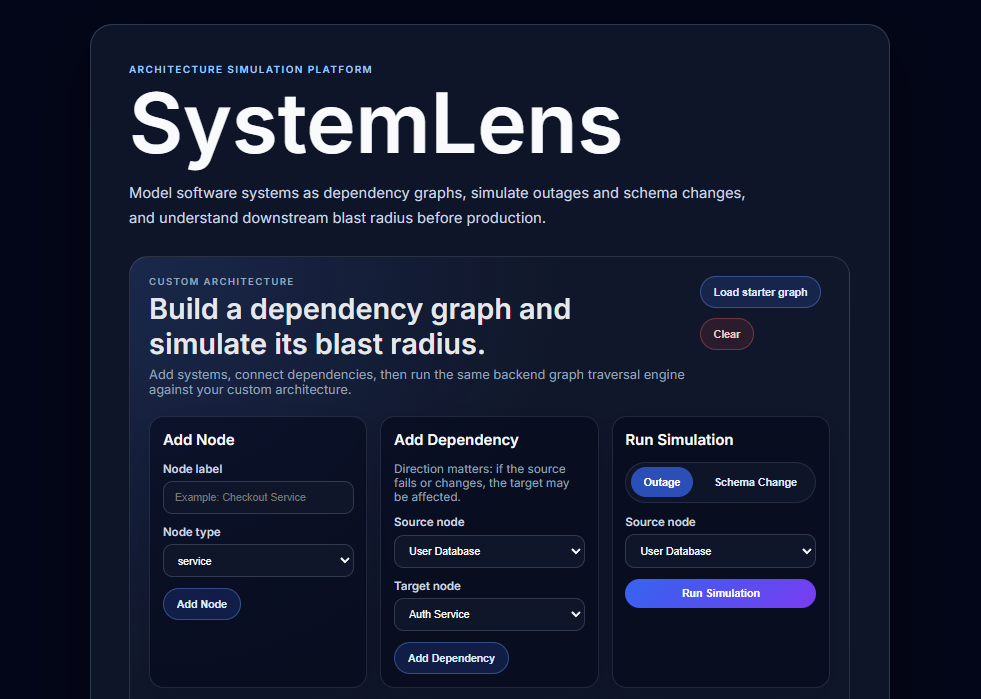
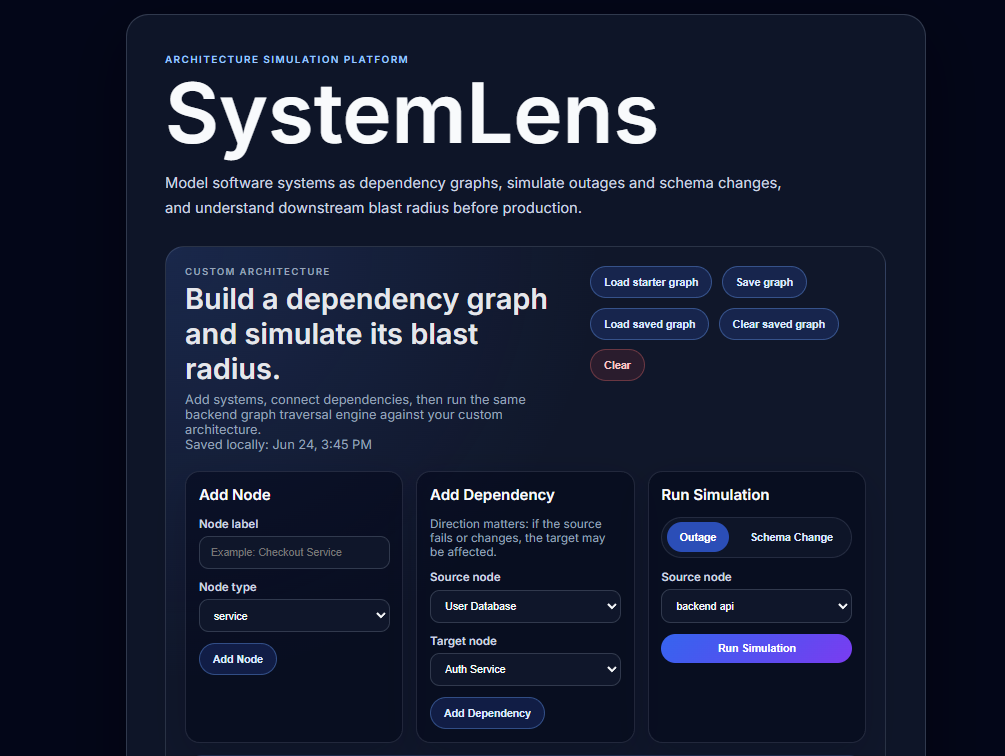
docs: added save and load architecture in readme

diff --git a/README.md b/README.md
@@ -34,6 +34,7 @@ The goal is to help developers answer questions like:
 ## Features
 
 - Build custom architecture dependency graphs
+- Save and load custom architectures
 - Add systems such as services, databases, frontends, queues, workers, and external providers
 - Define directional dependencies between systems
 - Run outage simulations
@@ -286,7 +287,6 @@ SystemLens currently supports:
 
 Possible future improvements include:
 
-- Save and load custom architectures
 - Export simulation reports
 - Compare two simulation scenarios
 - Add more starter architecture templates